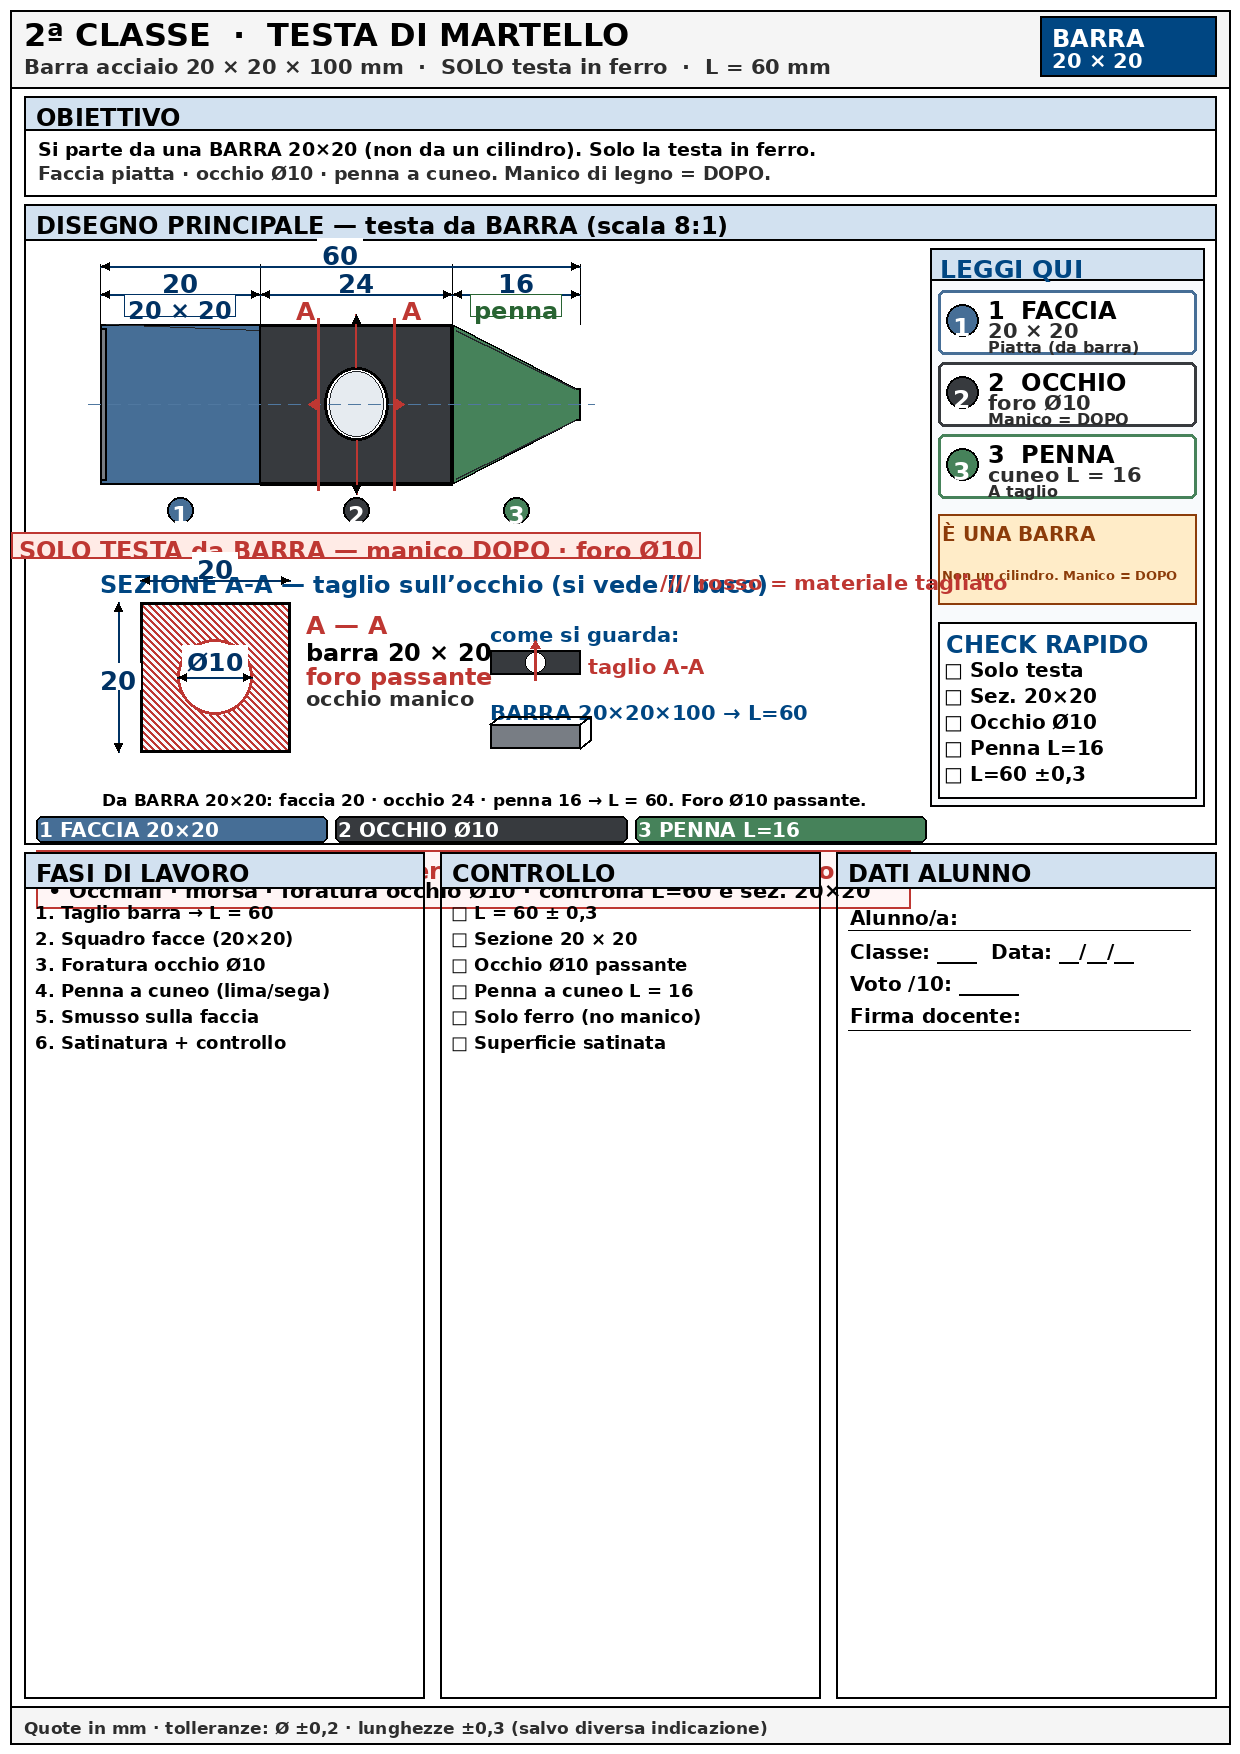
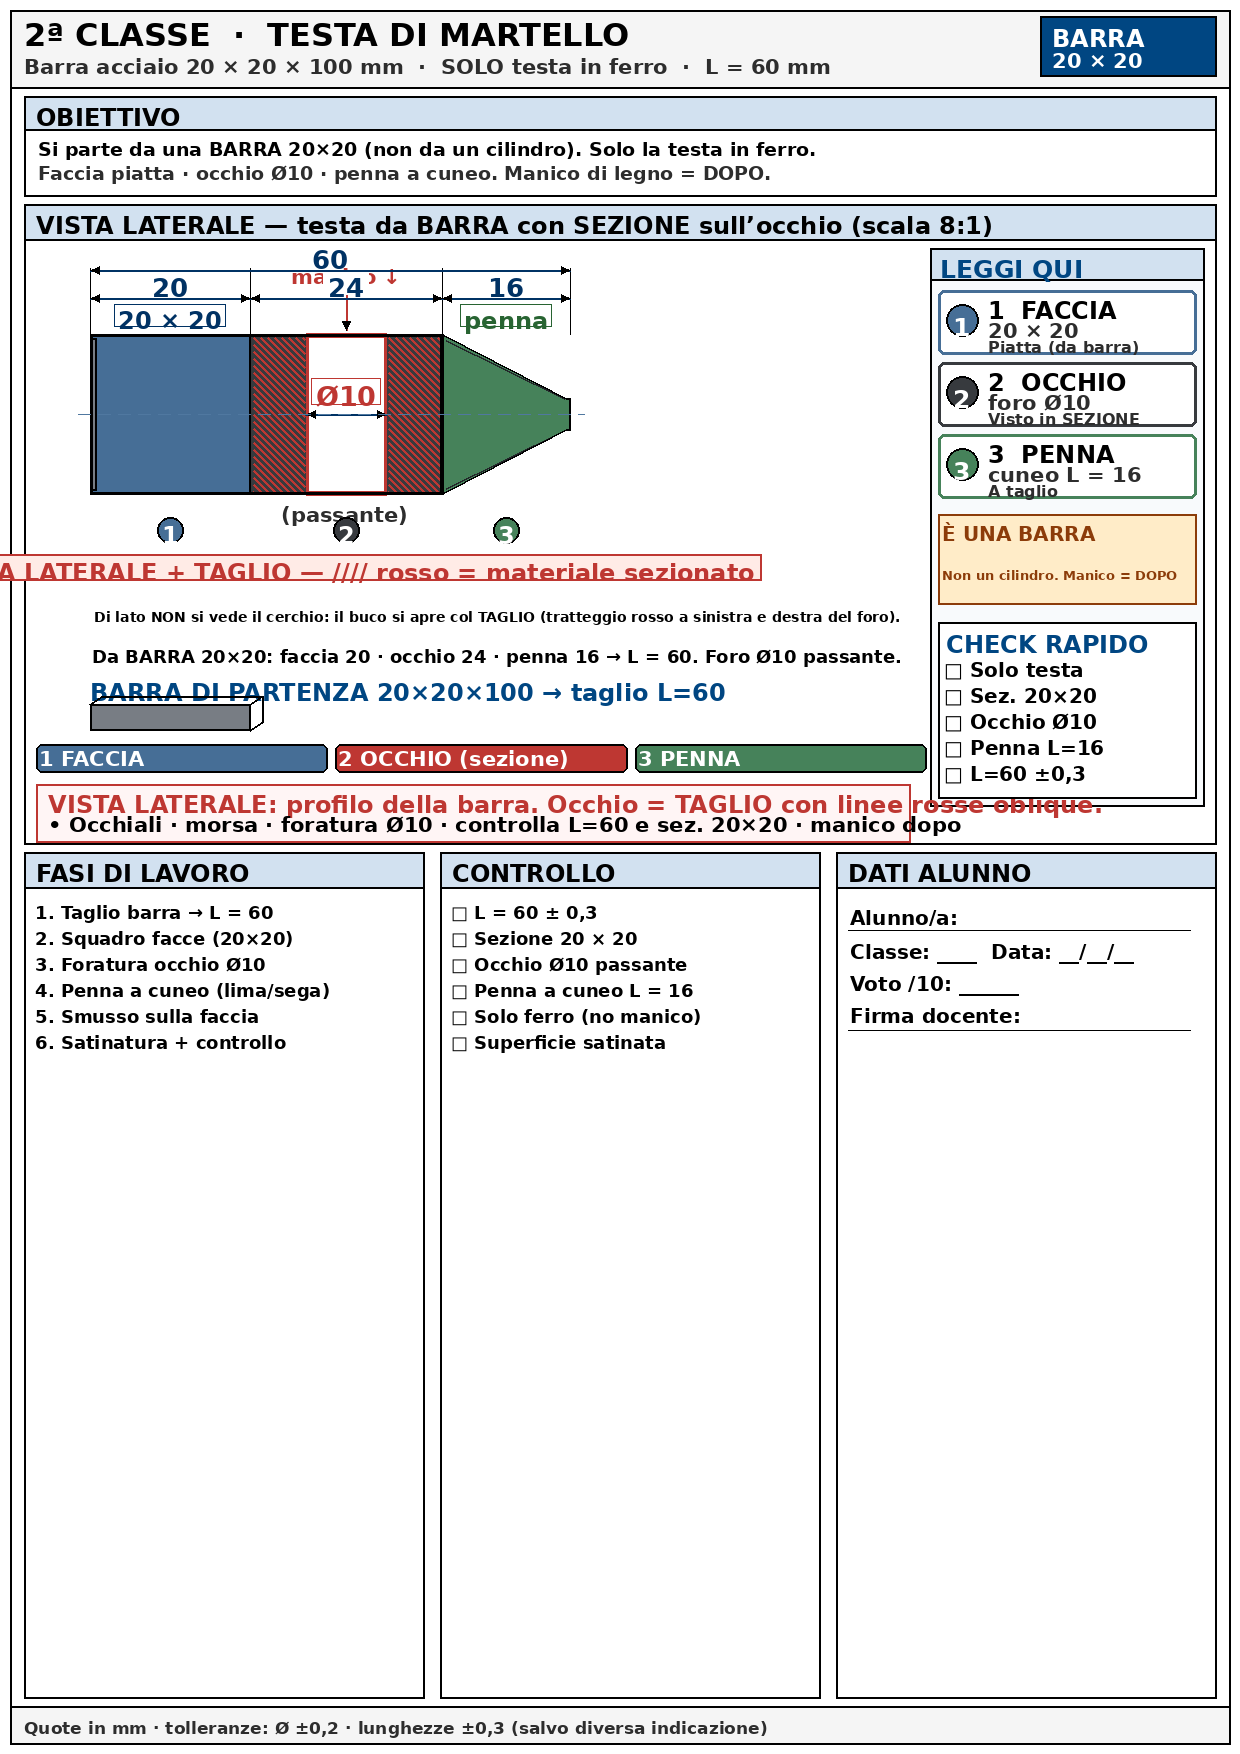
Vista laterale vera: occhio in sezione, niente foro da sopra.
Profilo barra + taglio con tratteggio rosso sul buco Ø10.

Changed region(s): [[0.0, 0.1231, 0.8581, 0.5234], [0.7968, 0.2155, 0.9194, 0.2463]]

diff --git a/progetti-ferro-gallery/generate_ferro.py b/progetti-ferro-gallery/generate_ferro.py
@@ -489,7 +489,7 @@ def make_2a():
             draw_h += min(slack, 60)
             bot = draw_top + draw_h + 8
             bh = FOOT - bot - 8
-    panel(d, 24, draw_top, W - 48, draw_h, "DISEGNO PRINCIPALE — testa da BARRA (scala 8:1)")
+    panel(d, 24, draw_top, W - 48, draw_h, "VISTA LATERALE — testa da BARRA con SEZIONE sull’occhio (scala 8:1)")
     panel_bottom = draw_top + draw_h
 
     FACE_C = (70, 110, 150)
@@ -506,7 +506,7 @@ def make_2a():
 
     blocks = [
         (FACE_C, "FACCIA", "20 × 20", "Piatta (da barra)"),
-        (IRON, "OCCHIO", "foro Ø10", "Manico = DOPO"),
+        (IRON, "OCCHIO", "foro Ø10", "Visto in SEZIONE"),
         (PEEN_C, "PENNA", "cuneo L = 16", "A taglio"),
     ]
     for i, (col, title, line1, line2) in enumerate(blocks):
@@ -525,14 +525,15 @@ def make_2a():
     text_in_box(d, info_x1 + 8, draw_top + 316, info_x2 - info_x1 - 16, 28, "È UNA BARRA", F14, WARN, pad=4)
     text_in_box(d, info_x1 + 8, draw_top + 348, info_x2 - info_x1 - 16, 44, "Non un cilindro. Manico = DOPO", F13, WARN, pad=4)
 
-    # ── Testa rettangolare da BARRA (come in foto) ──
+    # ── VISTA LATERALE (profilo) + SEZIONE sull’occhio ──
+    # Niente foro tondo “da sopra”: di lato il buco si vede solo col TAGLIO.
     sc = 8.0
-    mid = draw_top + 200
-    ox = 100
+    mid = draw_top + 210
+    ox = 90
     Lf, Lo, Lp = 20, 24, 16   # mm
-    # sezione barra 20×20 → altezza disegno = 20
-    h = 10 * sc               # metà altezza 20 mm
+    h = 10 * sc               # metà altezza barra 20 mm
     tip_h = 2.0 * sc
+    hole_half = 5 * sc        # Ø10 / 2
 
     x0 = ox
     x1 = ox + Lf * sc
@@ -540,23 +541,17 @@ def make_2a():
     end_x = x2 + Lp * sc
     peen_mid = x2 + Lp * sc * 0.5
     hx = (x1 + x2) / 2
+    hole_l, hole_r = hx - hole_half, hx + hole_half
 
     def P(xm, ym):
         return (xm, mid + ym)
 
-    # Corpo = BARRA rettangolare (spigoli vivi, non cilindro)
-    # faccia + occhio = un unico blocco 20×20
+    # Corpo barra (faccia + zone occhio ai lati del foro)
     d.rectangle([x0, mid - h, x2, mid + h], fill=IRON, outline=BLACK, width=3)
-    # faccia (sinistra) colorata
     d.rectangle([x0, mid - h, x1, mid + h], fill=FACE_C, outline=BLACK, width=2)
-    # faccia battente: quadrato visto di lato = bordo piatto
     d.rectangle([x0, mid - h + 4, x0 + 6, mid + h - 4], fill=IRON_L, outline=BLACK, width=2)
-    # linee di spigolo (aspetto barra)
-    d.line([x0 + 6, mid - h, x1 - 2, mid - h + 6], fill=IRON_D, width=1)
-    d.line([x1, mid - h, x2, mid - h], fill=BLACK, width=2)
-    d.line([x1, mid + h, x2, mid + h], fill=BLACK, width=2)
 
-    # PENNA a cuneo (continua dalla barra)
+    # PENNA a cuneo (profilo laterale)
     penna = [
         P(x2, -h), P(x2 + 8, -h + 4),
         P(end_x - 4, -tip_h), P(end_x, -tip_h),
@@ -567,23 +562,40 @@ def make_2a():
     d.line([x2 + 4, mid - h + 6, end_x - 6, mid - tip_h], fill=IRON_D, width=2)
     d.line([x2 + 4, mid + h - 6, end_x - 6, mid + tip_h], fill=IRON_D, width=2)
 
-    # OCCHIO
-    hole_rx, hole_ry = 4.0 * sc, 4.6 * sc
-    d.ellipse([hx - hole_rx, mid - hole_ry, hx + hole_rx, mid + hole_ry], fill=WHITE, outline=BLACK, width=3)
-    d.ellipse(
-        [hx - hole_rx + 5, mid - hole_ry + 4, hx + hole_rx - 5, mid + hole_ry - 4],
-        fill=(230, 235, 240), outline=IRON_D, width=1,
-    )
-    d.line([hx, mid - hole_ry, hx, mid - h - 10], fill=CAP_RED, width=2)
-    d.line([hx, mid + hole_ry, hx, mid + h + 10], fill=CAP_RED, width=2)
-    arrow_v(d, hx, mid - h - 10, up=True)
-    arrow_v(d, hx, mid + h + 10, up=False)
+    # ── TAGLIO sull’occhio: buco passante + tratteggio rosso (NO cerchio da sopra) ──
+    # Metallo tagliato a sinistra e a destra del foro
+    hatch_rect(d, x1 + 2, mid - h + 2, hole_l - 1, mid + h - 2, CAP_RED, step=7, width=2)
+    hatch_rect(d, hole_r + 1, mid - h + 2, x2 - 2, mid + h - 2, CAP_RED, step=7, width=2)
+    # Foro = rettangolo vuoto dall’alto al basso (passante), visto di lato
+    d.rectangle([hole_l, mid - h + 1, hole_r, mid + h - 1], fill=WHITE, outline=CAP_RED, width=3)
+    # Linee di taglio rosse in alto e in basso sul foro
+    d.line([hole_l, mid - h, hole_r, mid - h], fill=CAP_RED, width=3)
+    d.line([hole_l, mid + h, hole_r, mid + h], fill=CAP_RED, width=3)
+    # Ricontorno pezzo
+    d.rectangle([x0, mid - h, x2, mid + h], outline=BLACK, width=3)
+    d.line([x1, mid - h, x1, mid + h], fill=BLACK, width=1)
+    d.line([x2, mid - h, x2, mid + h], fill=BLACK, width=2)
+    d.polygon(penna, outline=BLACK, width=2)
 
-    # asse barra
+    # Quota Ø10 sul buco (orizzontale = diametro visto in sezione)
+    d.line([hole_l, mid, hole_r, mid], fill=DIM_COL, width=2)
+    arrow_h(d, hole_l, mid, left=True)
+    arrow_h(d, hole_r, mid, left=False)
+    otw = d.textlength("Ø10", font=F15)
+    d.rectangle([hx - otw / 2 - 4, mid - 36, hx + otw / 2 + 4, mid - 10], fill=WHITE, outline=CAP_RED, width=1)
+    d.text((hx - otw / 2, mid - 34), "Ø10", fill=CAP_RED, font=F15)
+
+    # Freccia “manico” che entra dall’alto nel buco (passante)
+    d.line([hx, mid - h - 48, hx, mid - h - 4], fill=CAP_RED, width=2)
+    arrow_v(d, hx, mid - h - 4, up=False)
+    mtw = d.textlength("manico ↓", font=F12)
+    d.text((hx - mtw / 2, mid - h - 70), "manico ↓", fill=CAP_RED, font=F12)
+    d.text((hx - mtw / 2 - 10, mid + h + 8), "(passante)", fill=GRAY, font=F12)
+
     centerline(d, x0 - 12, end_x + 14, mid)
 
     top_r = mid - h
-    q1 = top_r - 30
+    q1 = top_r - 36
     q0 = q1 - 28
     for xx in (x0, x1, x2, end_x):
         ext_tick(d, xx, top_r, q0 - 2)
@@ -597,7 +609,6 @@ def make_2a():
         d.rectangle([cx - tw / 2 - 4, yy - 2, cx + tw / 2 + 4, yy + 20], fill=WHITE, outline=col, width=1)
         d.text((cx - tw / 2, yy), text, fill=col, font=F13)
 
-    # quota sezione BARRA (non Ø)
     lab_box((x0 + x1) / 2, mid - h - 28, "20 × 20", DIM_COL)
     lab_box(peen_mid, mid - h - 28, "penna", (40, 100, 50))
 
@@ -606,114 +617,57 @@ def make_2a():
         tw = d.textlength(n, font=F13)
         d.text((cx - tw / 2, cy - 9), n, fill=WHITE, font=F13)
 
-    badge_y = mid + h + 26
+    badge_y = mid + h + 36
     badge((x0 + x1) / 2, badge_y, "1", FACE_C)
     badge(hx, badge_y, "2", IRON)
     badge(peen_mid, badge_y, "3", PEEN_C)
 
-    ftxt = "SOLO TESTA da BARRA — manico DOPO · foro Ø10"
+    ftxt = "VISTA LATERALE + TAGLIO — //// rosso = materiale sezionato"
     ftw = d.textlength(ftxt, font=F13) + 14
-    fy = badge_y + 22
+    fy = badge_y + 24
     d.rectangle([hx - ftw / 2, fy, hx + ftw / 2, fy + 26], fill=(255, 235, 230), outline=CAP_RED, width=2)
     d.text((hx - ftw / 2 + 7, fy + 4), ftxt, fill=CAP_RED, font=F13)
 
-    # Piano di sezione A-A sull’occhio (taglio trasversale — frecce dai lati)
-    aa_x1, aa_x2 = hx - 38, hx + 38
-    d.line([aa_x1, mid - h - 6, aa_x1, mid + h + 6], fill=CAP_RED, width=3)
-    d.line([aa_x2, mid - h - 6, aa_x2, mid + h + 6], fill=CAP_RED, width=3)
-    d.polygon([(aa_x1 - 10, mid), (aa_x1, mid - 7), (aa_x1, mid + 7)], fill=CAP_RED)
-    d.polygon([(aa_x2 + 10, mid), (aa_x2, mid - 7), (aa_x2, mid + 7)], fill=CAP_RED)
-    d.text((aa_x1 - 22, mid - h - 28), "A", fill=CAP_RED, font=F14)
-    d.text((aa_x2 + 8, mid - h - 28), "A", fill=CAP_RED, font=F14)
-
-    # ── SEZIONE A-A: vista del TAGLIO (quadro 20×20 + buco Ø10 + tratteggio rosso) ──
-    # Non è un altro disegno lungo: è il taglio trasversale sull’occhio.
-    sec_y0 = fy + 38
-    d.text((ox, sec_y0), "SEZIONE A-A — taglio sull’occhio (si vede il buco)", fill=ACCENT, font=F13)
-    d.text((ox + 560, sec_y0), "//// rosso = materiale tagliato", fill=CAP_RED, font=F12)
-
-    # quadro sezione: 20×20 mm, scala grande
-    sq = 7.5                    # px/mm → lato 150 px
-    side = 20 * sq
-    hole_r = 5 * sq             # Ø10 → raggio 5 mm
-    sq_x = ox + 40
-    sq_y = sec_y0 + 32
-    scx, scy = sq_x + side / 2, sq_y + side / 2
-
-    d.rectangle([sq_x, sq_y, sq_x + side, sq_y + side], fill=(250, 250, 252), outline=BLACK, width=3)
-    hatch_square_minus_hole(d, sq_x, sq_y, sq_x + side, sq_y + side, scx, scy, hole_r - 1, CAP_RED, step=7, width=2)
-    # foro bianco (buco passante)
-    d.ellipse([scx - hole_r, scy - hole_r, scx + hole_r, scy + hole_r], fill=WHITE, outline=CAP_RED, width=3)
-    d.rectangle([sq_x, sq_y, sq_x + side, sq_y + side], outline=BLACK, width=3)
-
-    # quote sul quadro
-    dim_h(d, sq_x, sq_x + side, sq_y - 22, "20")
-    # quota verticale 20
-    d.line([sq_x - 22, sq_y, sq_x - 22, sq_y + side], fill=DIM_COL, width=2)
-    arrow_v(d, sq_x - 22, sq_y, up=True)
-    arrow_v(d, sq_x - 22, sq_y + side, up=False)
-    tw20 = d.textlength("20", font=FDIM)
-    d.rectangle([sq_x - 22 - tw20 / 2 - 4, scy - 14, sq_x - 22 + tw20 / 2 + 4, scy + 12], fill=WHITE)
-    d.text((sq_x - 22 - tw20 / 2, scy - 12), "20", fill=DIM_COL, font=FDIM)
-    # quota Ø10 sul foro
-    d.line([scx - hole_r, scy, scx + hole_r, scy], fill=DIM_COL, width=2)
-    arrow_h(d, scx - hole_r, scy, left=True)
-    arrow_h(d, scx + hole_r, scy, left=False)
-    otw = d.textlength("Ø10", font=F14)
-    d.rectangle([scx - otw / 2 - 4, scy - 32, scx + otw / 2 + 4, scy - 8], fill=WHITE)
-    d.text((scx - otw / 2, scy - 30), "Ø10", fill=DIM_COL, font=F14)
-
-    d.text((sq_x + side + 16, sq_y + 8), "A — A", fill=CAP_RED, font=F14)
-    d.text((sq_x + side + 16, sq_y + 36), "barra 20 × 20", fill=BLACK, font=F13)
-    d.text((sq_x + side + 16, sq_y + 60), "foro passante", fill=CAP_RED, font=F13)
-    d.text((sq_x + side + 16, sq_y + 84), "occhio manico", fill=GRAY, font=F12)
-
-    # freccia “vista del taglio” schematica
-    vx = sq_x + side + 200
-    vy = sq_y + 20
-    d.text((vx, vy), "come si guarda:", fill=ACCENT, font=F12)
-    # mini testa lunga
-    d.rectangle([vx, vy + 28, vx + 90, vy + 52], fill=IRON, outline=BLACK, width=2)
-    d.ellipse([vx + 35, vy + 30, vx + 55, vy + 50], fill=WHITE, outline=BLACK, width=1)
-    # piano di taglio rosso
-    d.line([vx + 45, vy + 22, vx + 45, vy + 58], fill=CAP_RED, width=3)
-    d.polygon([(vx + 45, vy + 18), (vx + 40, vy + 26), (vx + 50, vy + 26)], fill=CAP_RED)
-    d.text((vx + 98, vy + 32), "taglio A-A", fill=CAP_RED, font=F12)
-
-    # mini barra
-    bx, by = vx, vy + 78
-    d.text((bx, by), "BARRA 20×20×100 → L=60", fill=ACCENT, font=F12)
-    d.rectangle([bx, by + 24, bx + 90, by + 48], fill=IRON_L, outline=BLACK, width=2)
-    d.line([bx + 90, by + 24, bx + 100, by + 16], fill=BLACK, width=2)
-    d.line([bx + 90, by + 48, bx + 100, by + 40], fill=BLACK, width=2)
-    d.line([bx + 100, by + 16, bx + 100, by + 40], fill=BLACK, width=2)
-    d.line([bx, by + 24, bx + 10, by + 16], fill=BLACK, width=2)
-    d.line([bx + 10, by + 16, bx + 100, by + 16], fill=BLACK, width=2)
-
-    note_y = sq_y + side + 36
+    # Nota sotto: niente vista da sopra
+    note_y = fy + 40
     text_in_box(
-        d, ox, note_y, info_x1 - ox - 24, 22,
+        d, ox, note_y, info_x1 - ox - 24, 44,
+        "Di lato NON si vede il cerchio: il buco si apre col TAGLIO (tratteggio rosso a sinistra e destra del foro).",
+        F13, BLACK, pad=4,
+    )
+    text_in_box(
+        d, ox, note_y + 50, info_x1 - ox - 24, 22,
         "Da BARRA 20×20: faccia 20 · occhio 24 · penna 16 → L = 60. Foro Ø10 passante.",
         F13, BLACK, pad=2,
     )
 
+    # Mini barra di partenza
+    bx, by = ox, note_y + 84
+    d.text((bx, by), "BARRA DI PARTENZA 20×20×100 → taglio L=60", fill=ACCENT, font=F13)
+    d.rectangle([bx, by + 26, bx + 160, by + 52], fill=IRON_L, outline=BLACK, width=2)
+    d.line([bx + 160, by + 26, bx + 172, by + 18], fill=BLACK, width=2)
+    d.line([bx + 160, by + 52, bx + 172, by + 44], fill=BLACK, width=2)
+    d.line([bx + 172, by + 18, bx + 172, by + 44], fill=BLACK, width=2)
+    d.line([bx, by + 26, bx + 12, by + 18], fill=BLACK, width=2)
+    d.line([bx + 12, by + 18, bx + 172, by + 18], fill=BLACK, width=2)
+
     legend = [
-        ("1 FACCIA 20×20", FACE_C, WHITE),
-        ("2 OCCHIO Ø10", IRON, WHITE),
-        ("3 PENNA L=16", PEEN_C, WHITE),
+        ("1 FACCIA", FACE_C, WHITE),
+        ("2 OCCHIO (sezione)", CAP_RED, WHITE),
+        ("3 PENNA", PEEN_C, WHITE),
     ]
-    tag_y = note_y + 28
+    tag_y = by + 66
     gap = 8
     chip_w = (info_x1 - 40 - 2 * gap) / 3
     for i, (lab, fill, tcol) in enumerate(legend):
         xa = 36 + i * (chip_w + gap)
-        d.rounded_rectangle([xa, tag_y, xa + chip_w, tag_y + 26], radius=6, fill=fill, outline=BLACK, width=2)
-        text_in_box(d, xa, tag_y, chip_w, 26, lab, F12, tcol, pad=3)
+        d.rounded_rectangle([xa, tag_y, xa + chip_w, tag_y + 28], radius=6, fill=fill, outline=BLACK, width=2)
+        text_in_box(d, xa, tag_y, chip_w, 28, lab, F12, tcol, pad=3)
 
-    tip_y = tag_y + 34
+    tip_y = tag_y + 40
     tips = [
-        "SEZIONE A-A = taglio trasversale: quadro 20×20 con buco Ø10 e tratteggio rosso.",
-        "• Occhiali · morsa · foratura occhio Ø10 · controlla L=60 e sez. 20×20",
+        "VISTA LATERALE: profilo della barra. Occhio = TAGLIO con linee rosse oblique.",
+        "• Occhiali · morsa · foratura Ø10 · controlla L=60 e sez. 20×20 · manico dopo",
     ]
     tip_step = 22
     tip_h_box = 10 + len(tips) * tip_step + 4
